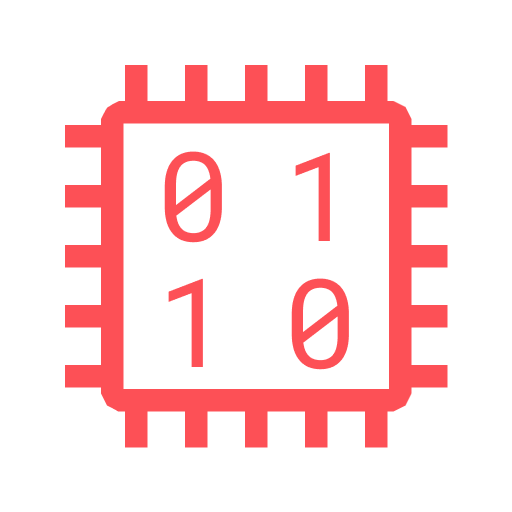
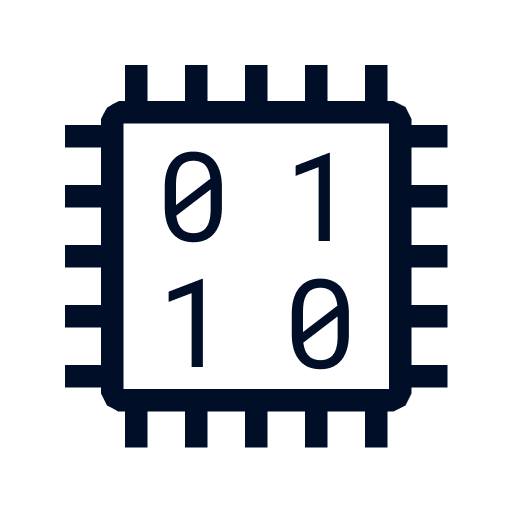
[docs] update branding and themes for mkdocs material

diff --git a/docs/stylesheets/theme.css b/docs/stylesheets/theme.css
@@ -1,0 +1,5 @@
+:root {
+    --md-primary-fg-color:        #039be5;
+    --md-primary-fg-color--light: #35afea;
+    --md-primary-fg-color--dark:  #027cb7;
+}

diff --git a/README.md b/README.md
@@ -1,7 +1,10 @@
 <br />
 <p align="center">
   <a href="https://github.com/vexelabs/bitbuilder">
-    <img src="assets/bitbuilder512x512.png" alt="Logo" width="160" height="160">
+    <img src="docs/static/bitbuilder512x512.png" 
+         alt="Logo" 
+         width="160" 
+         height="160">
   </a>
 
   <h3 align="center">Bitbuilder</h3>
